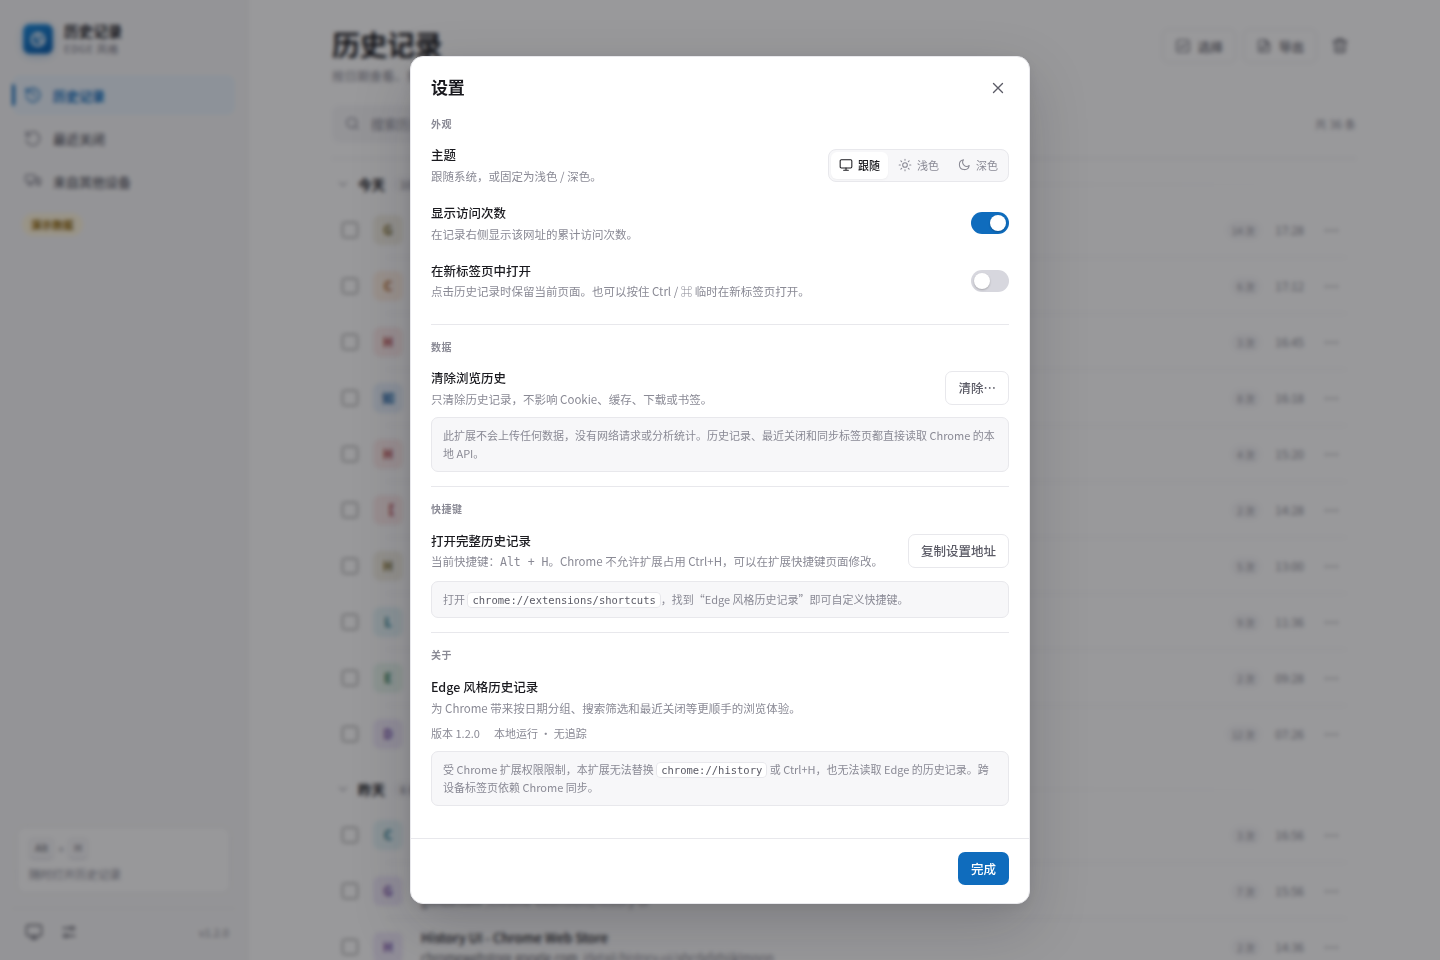
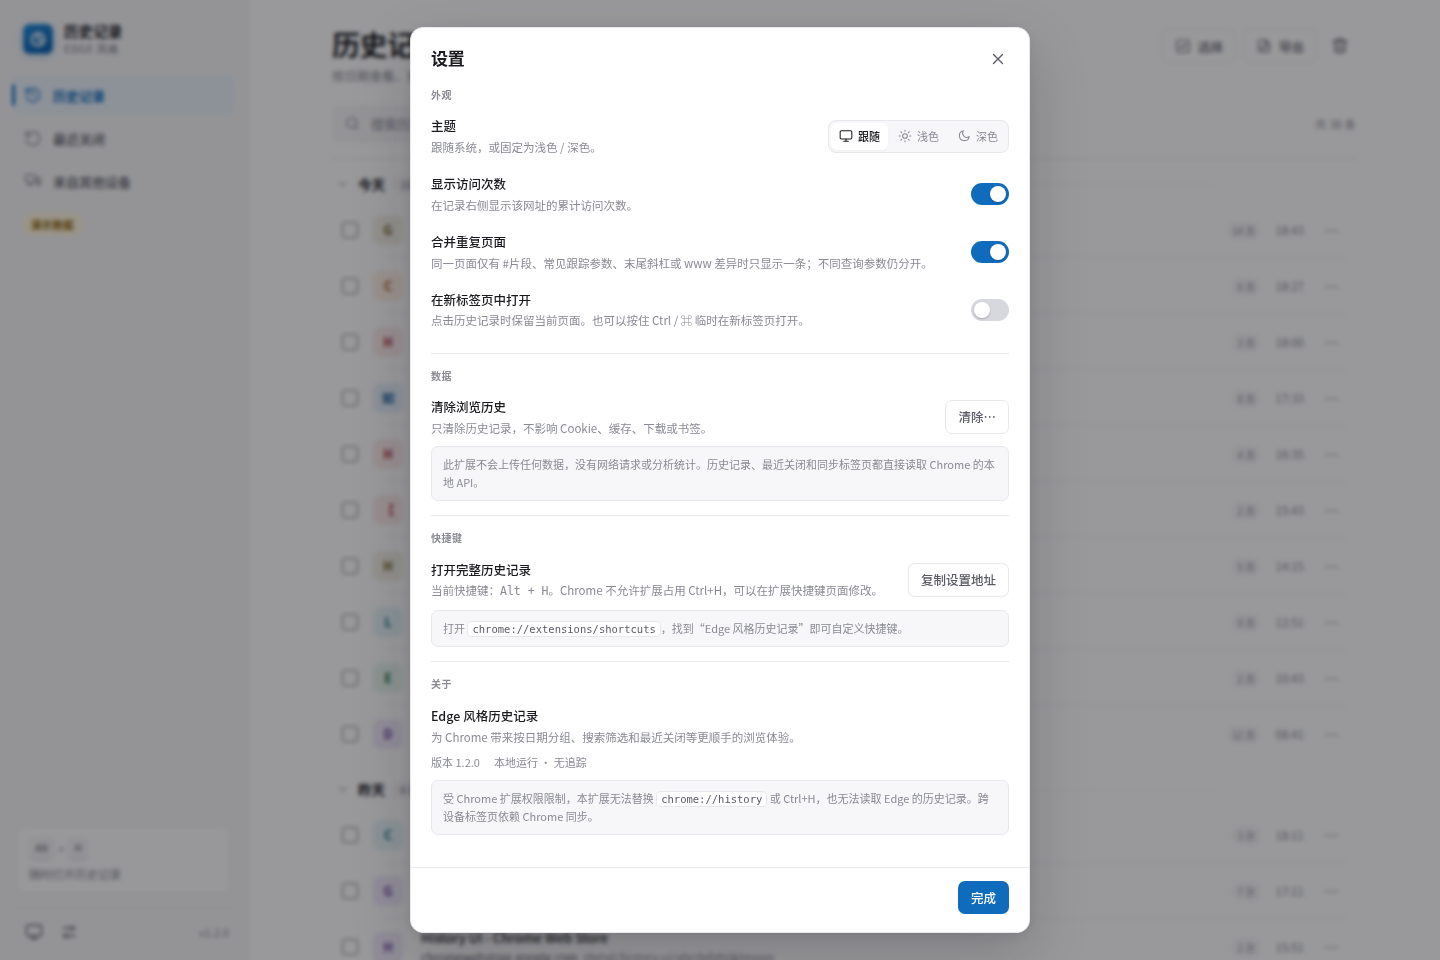
fix: merge repeated page variants in history
Chrome stores one history entry per distinct URL. The same page could
therefore appear repeatedly when only the fragment, a common tracking
parameter, a trailing slash, or the www prefix differed.

- canonicalize those variants for display while keeping the newest URL
- sum visit counts and keep the merged row in its newest date group
- expose a "合并重复页面" setting, enabled by default
- delete every merged URL together with the visible row
- apply the same grouping in the popup

diff --git a/history.js b/history.js
@@ -4,6 +4,7 @@ import {
   DEFAULT_SETTINGS,
   addDays,
   canOpenUrl,
+  canonicalHistoryUrl,
   clamp,
   copyText,
   debounce,
@@ -75,6 +76,7 @@ const state = {
   custom: { start: '', end: '' },
   items: [],
   seen: new Set(),
+  canonicalIndex: new Map(),
   cursor: null,
   exhausted: false,
   loading: false,
@@ -429,6 +431,7 @@ function resetHistoryData() {
   state.requestId += 1;
   state.items = [];
   state.seen.clear();
+  state.canonicalIndex.clear();
   state.cursor = null;
   state.exhausted = false;
   state.loading = false;
@@ -475,6 +478,7 @@ async function loadHistoryMore() {
   const pageSize = currentPageSize();
   const requestId = ++state.requestId;
   const newIdFloor = nextItemId;
+  const mergedIds = new Set();
   const lastExistingTime = state.items.length ? state.items[state.items.length - 1].lastVisitTime : Infinity;
   state.loading = true;
   state.error = null;
@@ -506,17 +510,30 @@ async function loadHistoryMore() {
       if (lastVisitTime < bounds.startTime || lastVisitTime > bounds.endTime) continue;
       if (isOwnExtensionPage(raw.url)) continue;
       if (state.seen.has(raw.url)) continue;
-
       state.seen.add(raw.url);
+
+      const canonicalKey = state.settings.mergeDuplicates
+        ? canonicalHistoryUrl(raw.url)
+        : raw.url;
+      const existing = state.canonicalIndex.get(canonicalKey);
+      if (existing) {
+        existing.visitCount += Number(raw.visitCount) || 1;
+        if (!existing.mergedUrls.includes(raw.url)) existing.mergedUrls.push(raw.url);
+        mergedIds.add(existing._id);
+        continue;
+      }
+
       const item = {
         ...raw,
         title: normalizeTitle(raw.title, raw.url),
         lastVisitTime,
         visitCount: Number(raw.visitCount) || 1,
+        mergedUrls: [raw.url],
         _id: nextItemId++
       };
       state.items.push(item);
       itemIndex.set(item._id, item);
+      state.canonicalIndex.set(canonicalKey, item);
     }
 
     state.items.sort((a, b) => b.lastVisitTime - a.lastVisitTime);
@@ -548,6 +565,7 @@ async function loadHistoryMore() {
         renderFooter();
       }
       updateResultCount();
+      refreshVisitChips(mergedIds);
     }
   }
 }
@@ -555,6 +573,37 @@ async function loadHistoryMore() {
 function rebuildItemIndex() {
   itemIndex.clear();
   for (const item of state.items) itemIndex.set(item._id, item);
+}
+
+function rebuildCanonicalIndex() {
+  state.canonicalIndex.clear();
+  for (const item of state.items) {
+    const key = state.settings.mergeDuplicates ? canonicalHistoryUrl(item.url) : item.url;
+    if (!state.canonicalIndex.has(key)) state.canonicalIndex.set(key, item);
+  }
+}
+
+function refreshVisitChips(ids) {
+  if (!ids.size) return;
+  for (const id of ids) {
+    const item = itemIndex.get(id);
+    if (!item) continue;
+    const row = el.historyList.querySelector(`.history-row[data-id="${id}"]`);
+    if (!row) continue;
+    let chip = row.querySelector('.visit-chip');
+    if (!state.settings.showVisitCounts || item.visitCount <= 1) {
+      chip?.remove();
+      continue;
+    }
+    if (!chip) {
+      chip = document.createElement('span');
+      chip.className = 'visit-chip';
+      chip.title = `${item.visitCount} 次访问`;
+      row.querySelector('.row-meta')?.prepend(chip);
+    }
+    chip.textContent = `${formatCount(item.visitCount)} 次`;
+    chip.title = `${item.visitCount} 次访问`;
+  }
 }
 
 function setupHistoryObserver() {
@@ -861,14 +910,15 @@ async function deleteSelected() {
 
   const confirmed = await showConfirm({
     title: '删除选中的历史记录？',
-    message: `将删除选中的 ${items.length} 个网址的全部浏览记录。Chrome 以网址为单位保存历史，删除会移除这些网址的所有访问记录，而不是只删除某一次访问。`,
+    message: `将删除选中的 ${items.length} 条记录的全部浏览记录。Chrome 以网址为单位保存历史，删除会移除这些网址的所有访问记录，而不是只删除某一次访问。`,
     note: '此操作无法撤销，也不会删除 Cookie、缓存或书签。',
     confirmLabel: '删除'
   });
   if (!confirmed) return;
 
-  const deleted = await deleteItemUrls(items.map((item) => item.url));
-  if (deleted > 0) showToast(`已删除 ${formatCount(deleted)} 条记录`, 'success');
+  const urls = items.flatMap((item) => item.mergedUrls?.length ? item.mergedUrls : [item.url]);
+  const deleted = await deleteItemUrls(urls);
+  if (deleted > 0) showToast(`已删除 ${formatCount(items.length)} 条记录`, 'success');
   else showToast('没有记录被删除，请重试', 'error');
   if (!state.items.length && state.selectMode) exitSelectMode();
 }
@@ -888,8 +938,9 @@ async function deleteItemUrls(urls) {
     state.requestId += 1;
     state.loading = false;
     state.items = state.items.filter((item) => !deletedUrls.has(item.url));
-    state.seen = new Set(state.items.map((item) => item.url));
+    state.seen = new Set(state.items.flatMap((item) => item.mergedUrls || [item.url]));
     rebuildItemIndex();
+    rebuildCanonicalIndex();
     state.selected.clear();
 
     if (!state.items.length) {
@@ -1008,16 +1059,20 @@ async function onRowMenuAction(action) {
 
 async function deleteItem(item) {
   const title = normalizeTitle(item.title, item.url);
+  const urls = item.mergedUrls?.length ? item.mergedUrls : [item.url];
+  const mergedNote = urls.length > 1
+    ? `这条记录合并了 ${urls.length} 个网址变体，会一并删除。`
+    : '';
   const confirmed = await showConfirm({
     title: '删除此历史记录？',
-    message: `将删除“${title}”的全部访问记录（共 ${item.visitCount || 1} 次）。Chrome 以网址为单位保存历史，因此无法只删除其中一次访问。`,
+    message: `将删除“${title}”的全部访问记录（共 ${item.visitCount || 1} 次）。${mergedNote}Chrome 以网址为单位保存历史，因此无法只删除其中一次访问。`,
     note: '此操作无法撤销。',
     confirmLabel: '删除'
   });
   if (!confirmed) return;
 
-  const index = state.items.findIndex((candidate) => candidate.url === item.url);
-  const deleted = await deleteItemUrls([item.url]);
+  const index = state.items.findIndex((candidate) => candidate._id === item._id);
+  const deleted = await deleteItemUrls(urls);
   showToast(deleted ? '已删除该记录' : '删除失败，请重试', deleted ? 'success' : 'error');
   if (!deleted) return;
 
@@ -2137,6 +2192,10 @@ function openSettings() {
         ${switchButton('showVisitCounts', '显示访问次数', state.settings.showVisitCounts)}
       </div>
       <div class="setting-row">
+        <div class="setting-copy"><strong>合并重复页面</strong><p>同一页面仅有 #片段、常见跟踪参数、末尾斜杠或 www 差异时只显示一条；不同查询参数仍分开。</p></div>
+        ${switchButton('mergeDuplicates', '合并重复页面', state.settings.mergeDuplicates)}
+      </div>
+      <div class="setting-row">
         <div class="setting-copy"><strong>在新标签页中打开</strong><p>点击历史记录时保留当前页面。也可以按住 Ctrl / ⌘ 临时在新标签页打开。</p></div>
         ${switchButton('openInNewTab', '在新标签页中打开', state.settings.openInNewTab)}
       </div>
@@ -2197,6 +2256,10 @@ function openSettings() {
           saveSettings({ [key]: value });
           if (key === 'showVisitCounts') {
             renderHistory();
+          }
+          if (key === 'mergeDuplicates') {
+            state.loadedOnce = false;
+            if (state.view === 'history') loadHistoryReset();
           }
         });
       }

diff --git a/popup.js b/popup.js
@@ -2,6 +2,7 @@ import './shared/demo.js';
 import { mountIcons, icon } from './shared/icons.js';
 import {
   canOpenUrl,
+  canonicalHistoryUrl,
   debounce,
   escapeHtml,
   faviconUrl,
@@ -36,6 +37,7 @@ const state = {
   range: 'all',
   items: [],
   seen: new Set(),
+  canonicalIndex: new Map(),
   cursor: null,
   exhausted: false,
   loading: false,
@@ -202,6 +204,7 @@ function resetHistoryData() {
   state.requestId += 1;
   state.items = [];
   state.seen.clear();
+  state.canonicalIndex.clear();
   state.cursor = null;
   state.exhausted = false;
   state.loading = false;
@@ -264,14 +267,28 @@ async function loadHistoryMore() {
       if (lastVisitTime < bounds.startTime || lastVisitTime > bounds.endTime) continue;
       if (isOwnExtensionPage(raw.url)) continue;
       if (state.seen.has(raw.url)) continue;
-
       state.seen.add(raw.url);
-      state.items.push({
+
+      const canonicalKey = state.settings.mergeDuplicates
+        ? canonicalHistoryUrl(raw.url)
+        : raw.url;
+      const existing = state.canonicalIndex.get(canonicalKey);
+      if (existing) {
+        existing.visitCount += Number(raw.visitCount) || 1;
+        if (!existing.mergedUrls.includes(raw.url)) existing.mergedUrls.push(raw.url);
+        continue;
+      }
+
+      const item = {
         ...raw,
         title: normalizeTitle(raw.title, raw.url),
         lastVisitTime,
+        visitCount: Number(raw.visitCount) || 1,
+        mergedUrls: [raw.url],
         _id: nextItemId++
-      });
+      };
+      state.items.push(item);
+      state.canonicalIndex.set(canonicalKey, item);
     }
 
     state.items.sort((a, b) => b.lastVisitTime - a.lastVisitTime);

diff --git a/shared/utils.js b/shared/utils.js
@@ -11,6 +11,7 @@ export const DEFAULT_SETTINGS = {
   showVisitCounts: true,
   openInNewTab: false,
   pageSize: 100,
+  mergeDuplicates: true,
   welcomeDismissed: false
 };
 
@@ -155,6 +156,33 @@ export function siteLabelOf(url) {
  * Split a URL into a compact host and the rest for a two-tone display.
  * Handles chrome:// and file:// pages without throwing.
  */
+const TRACKING_PARAMS = /^(?:utm_[a-z0-9_]+|fbclid|gclid|yclid|msclkid|mc_cid|mc_eid|igshid|si|spm|scm|vd_source|share_source|share_medium)$/i;
+
+/**
+ * Best-effort identity for "the same page" in history. Chrome stores one entry
+ * per distinct URL, so the same page can otherwise appear once per fragment,
+ * common tracking parameter, trailing slash, or www host. Query parameters are
+ * preserved (apart from known tracking keys) because they often select real
+ * content.
+ */
+export function canonicalHistoryUrl(url) {
+  try {
+    const parsed = new URL(String(url));
+    parsed.hash = '';
+    parsed.hostname = parsed.hostname.replace(/^www\./i, '');
+    if (parsed.pathname.length > 1) {
+      parsed.pathname = parsed.pathname.replace(/\/+$/, '') || '/';
+    }
+    for (const key of [...parsed.searchParams.keys()]) {
+      if (TRACKING_PARAMS.test(key)) parsed.searchParams.delete(key);
+    }
+    parsed.searchParams.sort();
+    return parsed.href;
+  } catch {
+    return String(url || '');
+  }
+}
+
 export function urlParts(url) {
   const parsed = parseUrl(url);
   if (!parsed) return { host: String(url || ''), rest: '' };

diff --git a/shared/demo.js b/shared/demo.js
@@ -190,6 +190,7 @@ function createDemoChrome(params) {
     showVisitCounts: true,
     openInNewTab: false,
     pageSize: 200,
+    mergeDuplicates: true,
     welcomeDismissed: true
   };
 

diff --git a/background.js b/background.js
@@ -13,6 +13,7 @@ const DEFAULT_SETTINGS = {
   showVisitCounts: true,
   openInNewTab: false,
   pageSize: 100,
+  mergeDuplicates: true,
   welcomeDismissed: false
 };
 
